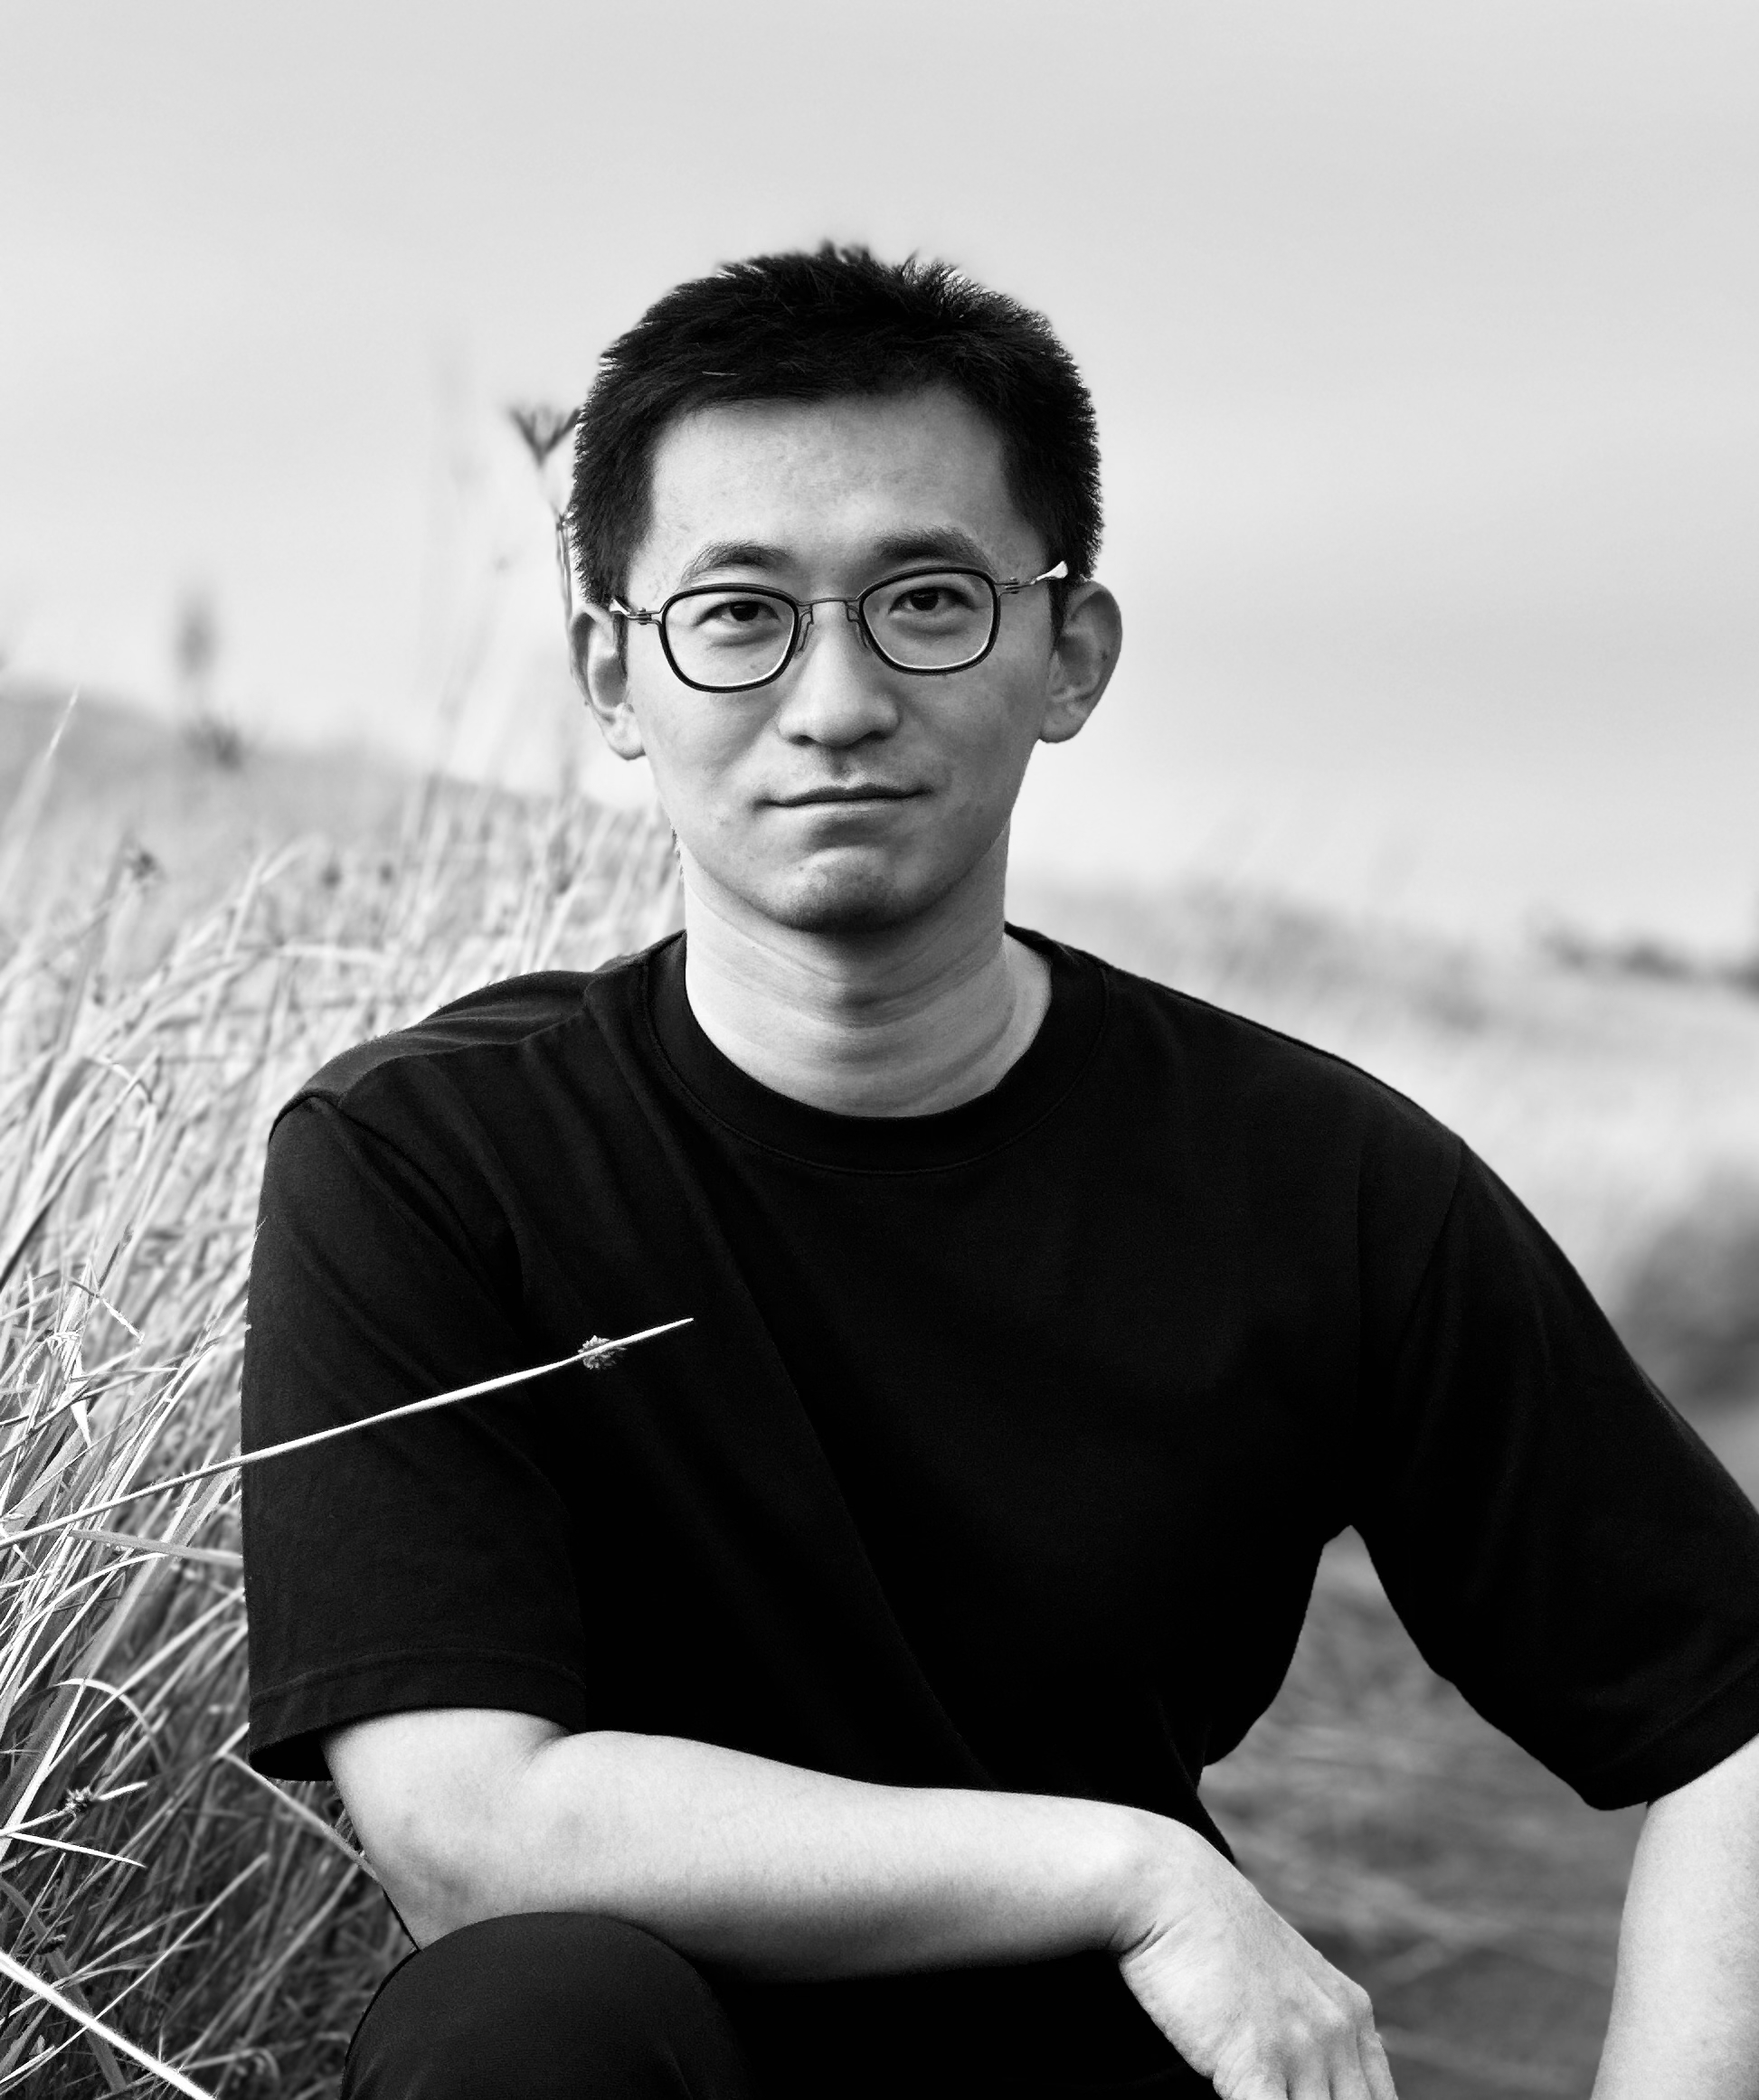
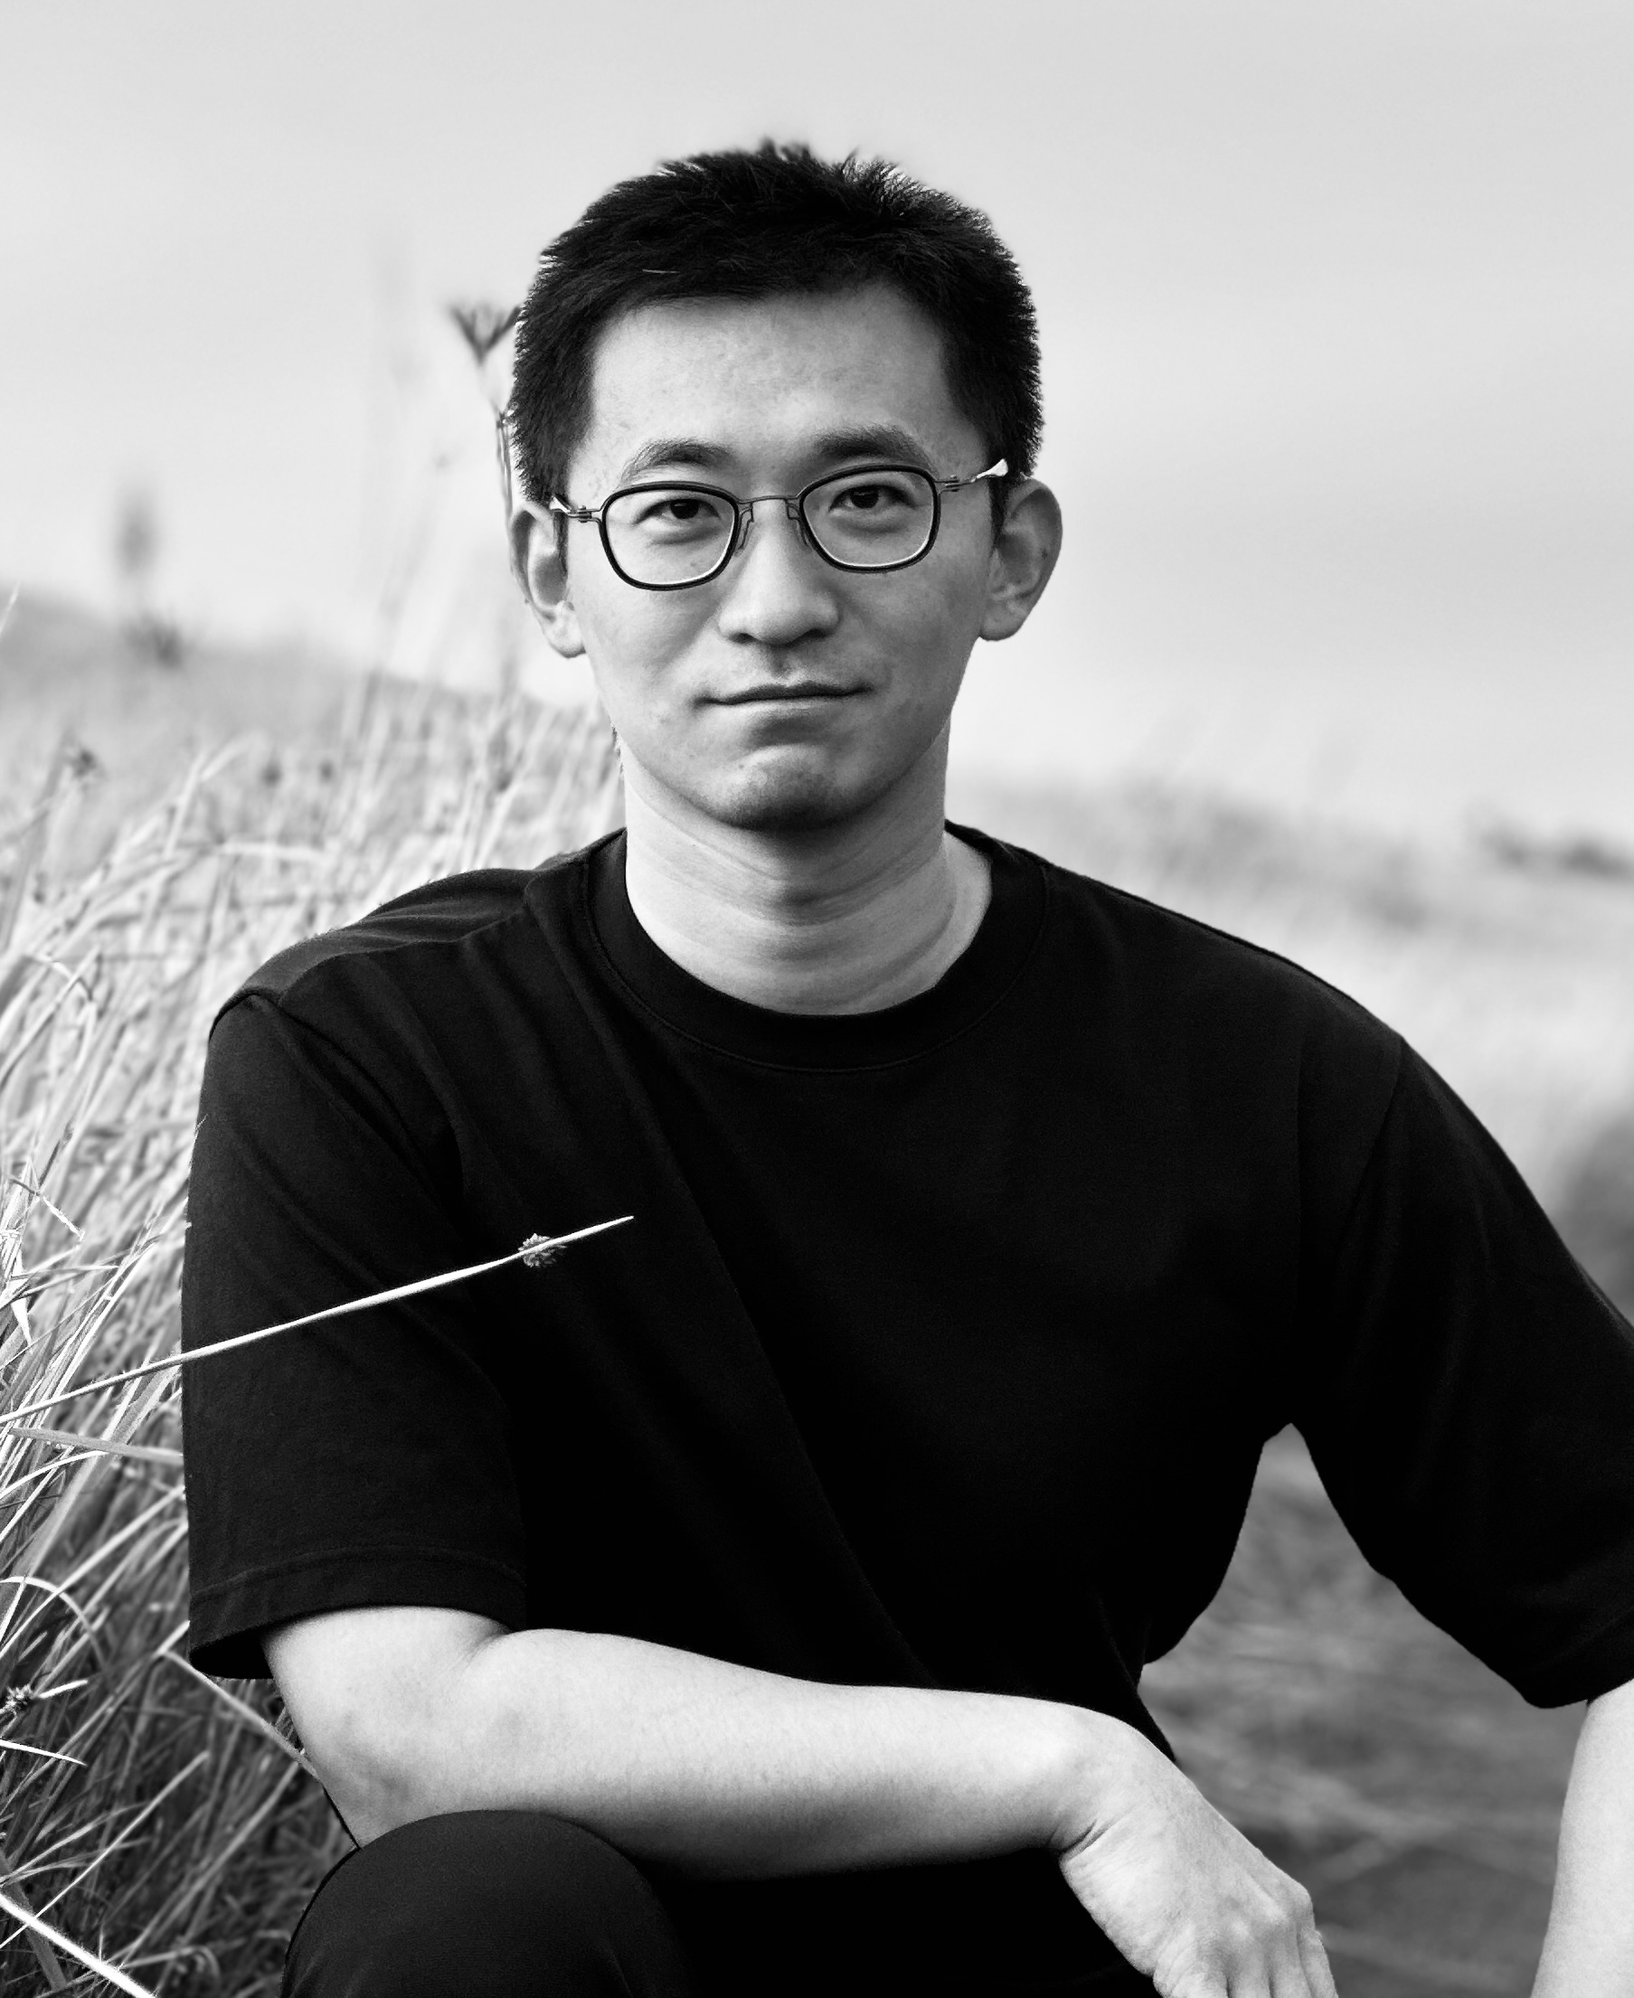
s

Changed region(s): [[0.0, 0.0624, 1.0, 1.0], [0.9607, 0.5308, 1.0, 0.5932], [0.9297, 0.5308, 0.9607, 0.562]]

diff --git a/public/index.html b/public/index.html
@@ -87,7 +87,7 @@
     <main class="main"><div class="profile">
     <div class="profile_inner">
         <img draggable="false" src="http://localhost:1313/profile.jpg" alt="Mingze Lucas Ni" title="Mingze Lucas Ni"
-            height="180" width="155" />
+            height="165" width="133" />
         <h1>Mingze Lucas Ni</h1>
         <span>Mingze Ni is a Postdoctoral Researcher in machine learning at the University of Technology Sydney. His research interests lie in adversarial machine learning, Markov Chain Monte Carlo (MCMC) methods, combinatorial optimization, and Natural Language Processing (NLP).</span><div class="social-icons">
     <a href="mailto:mingze.ni@uts.edu.au" target="_blank" rel="noopener noreferrer me" title="Email">
